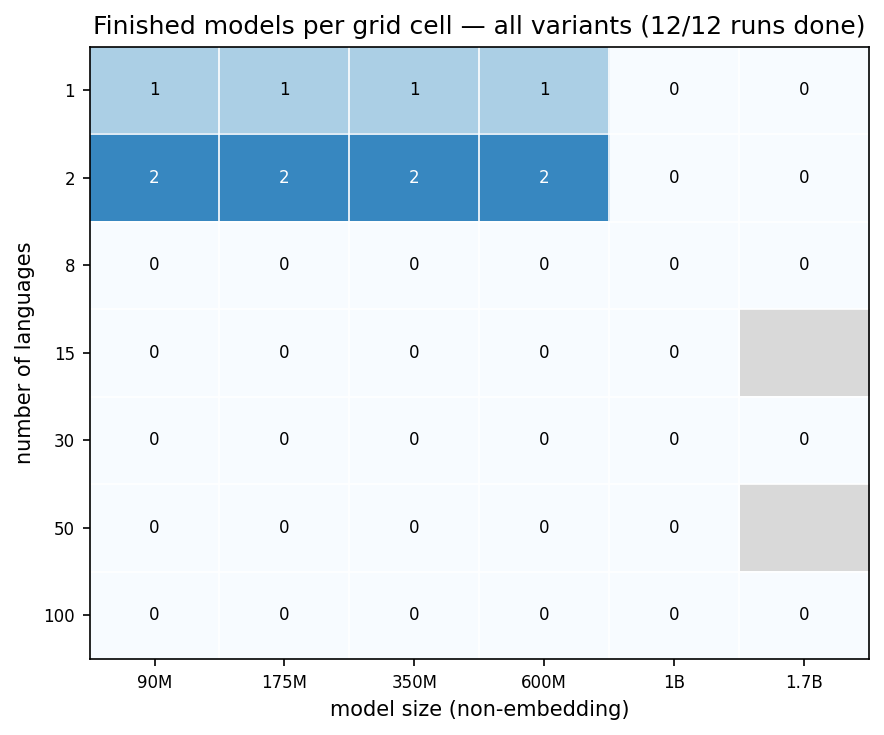
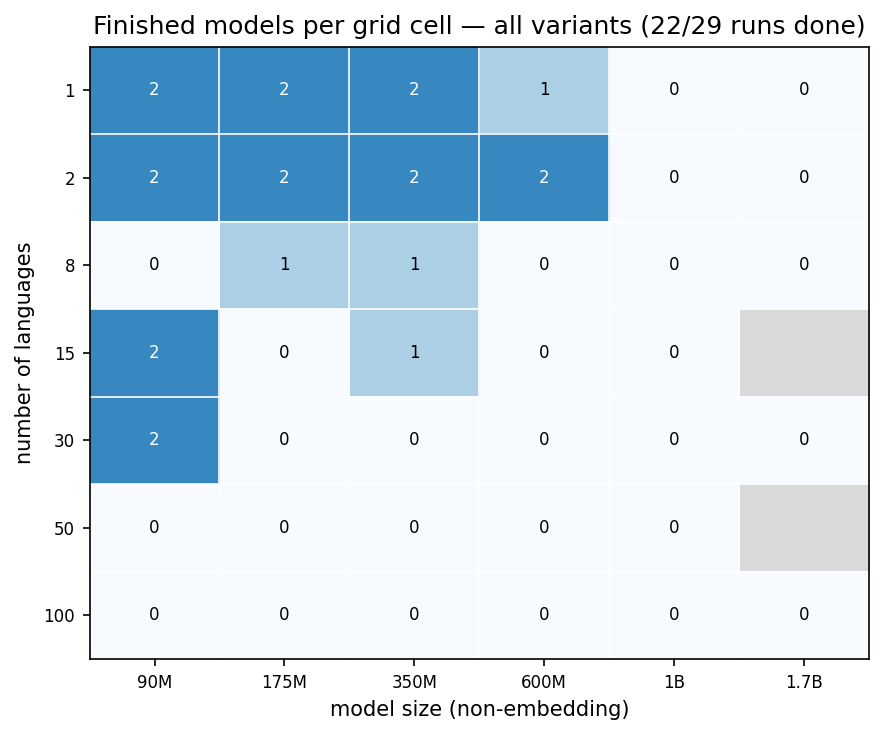
add pretrain progress plan table and add auto grid block in docs

diff --git a/src/pretrain/pretrain_progress.py b/src/pretrain/pretrain_progress.py
@@ -16,10 +16,13 @@ decision function (`cell_action`) drives launch_trainings.py's idempotent
 submission (which also refreshes the plots below on every CSCS launch), so
 this output is exactly what a (re-)launch would do.
 
-With --plot, renders two heatmaps over the sweep grid (x = model size,
+With --plot, renders a plan table plus two heatmaps over the sweep grid (x = model size,
 y = number of languages), aggregated over EVERY run found on disk regardless
 of variant:
 
+  pretrain_progress_plan.png      what the grid PLANS per (size, L): the
+                                  scheme / architecture / seed(s) of every
+                                  run, not just a count.
   pretrain_progress_simple.png    cell value = how many finished models exist
                                   at (size, L) across all variants (seeds,
                                   deep/shallow, scheme A/B, tokenizers).
@@ -47,8 +50,10 @@ from pathlib import Path
 SCRIPT_DIR = Path(__file__).resolve().parent
 sys.path.insert(0, str(SCRIPT_DIR))
 from launch_trainings import (  # noqa: E402
-    HYPERPARAMS, LANG_SETTINGS, SCHEME_B_LANGS, SIZE_LANG_SETTINGS, exp_name,
-    predictivity_cells, schedule_for)
+    HYPERPARAMS, LANG_SETTINGS, SCHEME_B_LANGS, SEED_SINGLE, SEED_TRIPLE,
+    SIZE_LANG_SETTINGS,
+    TRIPLE_LANGS, TRIPLE_SIZES, exp_name, predictivity_cells, schedule_for,
+    seeds_for)
 
 # Megatron writes checkpoints under Meg-Runs/<PROJECT_NAME>/<EXP_NAME>/
 # (launch_pretraining_cscs.sh); PROJECT_NAME for the predictivity sweep is
@@ -311,6 +316,145 @@ def update_plots(root: Path = CKPT_ROOT, out_dir: Path = SCRIPT_DIR) -> None:
     print(f"[plot] saved {detailed_path}", file=sys.stderr)
 
 
+def planned_variants(size: str, L: int) -> list[str]:
+    """Every run the grid plans for one (size, L) cell, as display lines.
+
+    A cell is not one run: it multiplies out over seed (1 or 3, per
+    seeds_for), architecture (deep/shallow), and data scheme (A always, plus B
+    only where B's language set actually differs — elsewhere a scheme-B sweep
+    resolves to the scheme-A cell and would be a duplicate).
+
+    Seeds are collapsed onto one line per (scheme, arch) so a 12-run cell stays
+    readable; the characteristics, not just the count, are what the table is
+    for.
+    """
+    if L not in SIZE_LANG_SETTINGS[size]:
+        return []
+    seeds = seeds_for(size, L)
+    schemes = ["A", "B"] if L in SCHEME_B_LANGS else ["A"]
+    lines = []
+    for scheme in schemes:
+        for arch in ("deep", "shallow"):
+            lines.append(f"{scheme} {arch} " + "/".join(str(x) for x in seeds))
+    return lines
+
+
+def plan_table(out_dir: Path = SCRIPT_DIR) -> None:
+    """pretrain_progress_plan.png — what the grid PLANS (not what is done).
+
+    Rows are language settings, columns model sizes, and each cell spells out
+    the planned variants. Blank cells are settings a size does not train at
+    (only the 1.7B row is sparse).
+    """
+    import matplotlib.pyplot as plt
+
+    rows, cols = LANG_SETTINGS, SIZES
+    cells = [[planned_variants(size, L) for size in cols] for L in rows]
+    total = sum(len(v.split("/")) for row in cells for c in row for v in c)
+
+    fig, ax = plt.subplots(figsize=(1.9 * len(cols) + 2, 1.15 * len(rows) + 1.6))
+    ax.set_xlim(0, len(cols))
+    ax.set_ylim(0, len(rows))
+    ax.invert_yaxis()
+    ax.set_xticks([i + 0.5 for i in range(len(cols))])
+    ax.set_xticklabels(cols, fontsize=10)
+    ax.set_yticks([i + 0.5 for i in range(len(rows))])
+    ax.set_yticklabels([f"L{L}" for L in rows], fontsize=10)
+    ax.xaxis.set_ticks_position("top")
+    ax.tick_params(length=0)
+    for sp in ax.spines.values():
+        sp.set_visible(False)
+
+    for i, L in enumerate(rows):
+        for j, size in enumerate(cols):
+            lines = cells[i][j]
+            face = "#f4f7fb" if lines else "#e8e8e8"
+            ax.add_patch(plt.Rectangle((j, i), 1, 1, facecolor=face,
+                                       edgecolor="white", linewidth=1.5))
+            if not lines:
+                continue
+            ax.text(j + 0.5, i + 0.5, "\n".join(lines), ha="center",
+                    va="center", fontsize=6.5, linespacing=1.5)
+
+    ax.set_title(f"Planned runs per grid cell — scheme, architecture, seed(s)\n"
+                 f"{total} runs; grey = size not trained at that setting",
+                 fontsize=11, pad=26)
+    fig.tight_layout()
+    path = out_dir / "pretrain_progress_plan.png"
+    fig.savefig(path, dpi=150, bbox_inches="tight")
+    plt.close(fig)
+    print(f"[plot] saved {path}", file=sys.stderr)
+
+
+# Docs that describe the grid. Everything between the markers is generated
+# from the constants in launch_trainings, so editing the grid there (a size, a
+# language setting, the seeded columns) and re-running --plot keeps every doc
+# in step instead of leaving stale numbers behind.
+DOC_BEGIN = "<!-- BEGIN generated: pretrain_progress.py --plot -->"
+DOC_END = "<!-- END generated -->"
+SYNC_DOCS = {
+    SCRIPT_DIR / "README.md": ".",
+    SCRIPT_DIR.parent.parent / "plan" / "small-to-large-predictivity-training-plan.md":
+        "../src/pretrain",
+}
+
+
+def _fmt(xs) -> str:
+    return ", ".join(str(x) for x in xs)
+
+
+def grid_markdown(png_dir: str) -> str:
+    """The sweep's axes, run counts and figures — derived, never hand-written."""
+    sparse = {size: ls for size, ls in SIZE_LANG_SETTINGS.items()
+              if set(ls) != set(LANG_SETTINGS)}
+    size_note = "; ".join(f"{s} at L ∈ {{{_fmt(ls)}}}" for s, ls in sparse.items())
+    baseline = len(predictivity_cells())
+    # Every run the grid plans: seeds x architectures x schemes, per cell.
+    full = sum(len(seeds_for(size, L)) * 2 * (2 if L in SCHEME_B_LANGS else 1)
+               for L in LANG_SETTINGS for size in SIZES
+               if L in SIZE_LANG_SETTINGS[size])
+
+    return f"""{DOC_BEGIN}
+| Axis | Values |
+| ---- | ------ |
+| Size (non-embedding) | {_fmt(SIZES)} ({size_note}) |
+| Language setting L | {_fmt(LANG_SETTINGS)} (English + L−1 FineWeb-2 languages; L=1 is 100% English) |
+| Seed | {_fmt(SEED_SINGLE)}; ×{len(SEED_TRIPLE)} seeds ({_fmt(SEED_TRIPLE)}) on the {_fmt(sorted(TRIPLE_SIZES))} columns at L ∈ {{{_fmt(sorted(TRIPLE_LANGS))}}} |
+| Data scheme | A everywhere; B only where its language set differs — L ∈ {{{_fmt(sorted(SCHEME_B_LANGS))}}} |
+| Architecture | deep (baseline) and shallow (the model-depth intervention) |
+
+**{baseline} runs** at one intervention level (scheme A, deep — the plan grid).
+Counting both architectures and scheme B where it differs: **{full} runs**.
+
+![Planned runs per grid cell]({png_dir}/pretrain_progress_plan.png)
+
+![Finished models per grid cell]({png_dir}/pretrain_progress_simple.png)
+{DOC_END}"""
+
+
+def sync_docs() -> None:
+    """Rewrite the generated block in every doc that describes the grid."""
+    for path, png_dir in SYNC_DOCS.items():
+        if not path.is_file():
+            print(f"[docs] missing {path}", file=sys.stderr)
+            continue
+        text = path.read_text()
+        block = grid_markdown(png_dir)
+        if DOC_BEGIN in text and DOC_END in text:
+            head, rest = text.split(DOC_BEGIN, 1)
+            _, tail = rest.split(DOC_END, 1)
+            new = head + block + tail
+        else:
+            print(f"[docs] no markers in {path.name} — add {DOC_BEGIN} / "
+                  f"{DOC_END} where the grid should go", file=sys.stderr)
+            continue
+        if new != text:
+            path.write_text(new)
+            print(f"[docs] updated {path}", file=sys.stderr)
+        else:
+            print(f"[docs] {path.name} already in sync", file=sys.stderr)
+
+
 def main() -> None:
     p = argparse.ArgumentParser(
         description=__doc__, formatter_class=argparse.RawDescriptionHelpFormatter
@@ -332,6 +476,8 @@ def main() -> None:
                  filter_substr=args.filter)
     if args.plot:
         update_plots(root=Path(args.root))
+        plan_table()
+        sync_docs()
 
 
 if __name__ == "__main__":

diff --git a/src/pretrain/README.md b/src/pretrain/README.md
@@ -63,13 +63,24 @@ walltime to the remaining iters); on Azure resubmitting is the resume.
 
 ## The sweep
 
+<!-- BEGIN generated: pretrain_progress.py --plot -->
 | Axis | Values |
 | ---- | ------ |
 | Size (non-embedding) | 90M, 175M, 350M, 600M, 1B, 1.7B (1.7B at L ∈ {1, 2, 8, 30, 100}) |
 | Language setting L | 1, 2, 8, 15, 30, 50, 100 (English + L−1 FineWeb-2 languages; L=1 is 100% English) |
-| Seed | 1904; ×3 seeds (28, 1797, 1904) on the 175M and 1B columns at L ∈ {1, 2, 30, 100} |
+| Seed | 1904; ×3 seeds (28, 1797, 1904) on the 175M, 1B columns at L ∈ {1, 2, 30, 100} |
+| Data scheme | A everywhere; B only where its language set differs — L ∈ {8, 15, 30} |
+| Architecture | deep (baseline) and shallow (the model-depth intervention) |
 
-56 runs at one intervention level. Variants multiply the
+**56 runs** at one intervention level (scheme A, deep — the plan grid).
+Counting both architectures and scheme B where it differs: **154 runs**.
+
+![Planned runs per grid cell](./pretrain_progress_plan.png)
+
+![Finished models per grid cell](./pretrain_progress_simple.png)
+<!-- END generated -->
+
+Variants multiply the
 grid and are suffix-marked in the run name: `--arch shallow` (width/depth
 128, the model-depth intervention)
 and `--scheme B` (diversity-first language sets — B differs from A only at
@@ -205,6 +216,14 @@ python launch_trainings.py cscs --scheme B --langs 8   # scheme-B data variant
 python launch_trainings.py cscs --size 600M --langs 8 --seed 1904
 python launch_trainings.py azure --langs 1             # monolingual anchors
 python launch_trainings.py cscs --test --dry-run       # smoke: 90M, L8, 50 steps
+```
+
+The training plan:
+
+```bash
+python launch_trainings.py cscs --size 175M --langs 1 --arch deep --seed 313
+python launch_trainings.py cscs --size 90M,175M,350M,600M --langs 30 --arch deep --seed 1904
+python launch_trainings.py cscs --size 90M,175M,350M,600M --langs 15 --seed 1904
 ```
 
 CSCS-only knobs: `--data_dir`, `--time` (override the auto-sized walltime),

diff --git a/plan/small-to-large-predictivity-training-plan.md b/plan/small-to-large-predictivity-training-plan.md
@@ -30,10 +30,26 @@ Sizes are non-embedding parameters. Cells marked ×3 get three seeds (different 
 | 50        | ✓   | ✓    | ✓    | ✓    | ✓   | —    |
 | 100       | ✓   | ×3   | ✓    | ✓    | ×3  | ✓    |
 
-56 runs (at one intervention level). (The 200-language setting was
-dropped on 2026-08-13 to fit the compute budget and deadline. The ×3-seed
-rows were 1, 30 and 100; L=2 was added to them, and the 1.7B row gained
-L=2, taking the grid from 52 to 56.)
+<!-- BEGIN generated: pretrain_progress.py --plot -->
+| Axis | Values |
+| ---- | ------ |
+| Size (non-embedding) | 90M, 175M, 350M, 600M, 1B, 1.7B (1.7B at L ∈ {1, 2, 8, 30, 100}) |
+| Language setting L | 1, 2, 8, 15, 30, 50, 100 (English + L−1 FineWeb-2 languages; L=1 is 100% English) |
+| Seed | 1904; ×3 seeds (28, 1797, 1904) on the 175M, 1B columns at L ∈ {1, 2, 30, 100} |
+| Data scheme | A everywhere; B only where its language set differs — L ∈ {8, 15, 30} |
+| Architecture | deep (baseline) and shallow (the model-depth intervention) |
+
+**56 runs** at one intervention level (scheme A, deep — the plan grid).
+Counting both architectures and scheme B where it differs: **154 runs**.
+
+![Planned runs per grid cell](../src/pretrain/pretrain_progress_plan.png)
+
+![Finished models per grid cell](../src/pretrain/pretrain_progress_simple.png)
+<!-- END generated -->
+
+(The 200-language setting was dropped on 2026-08-13 to fit the compute budget
+and deadline. The ×3-seed rows were 1, 30 and 100; L=2 was added to them, and
+the 1.7B row gained L=2, taking the grid from 52 to 56.)
 
 ## Intervention axis (the design choice under test)
 
